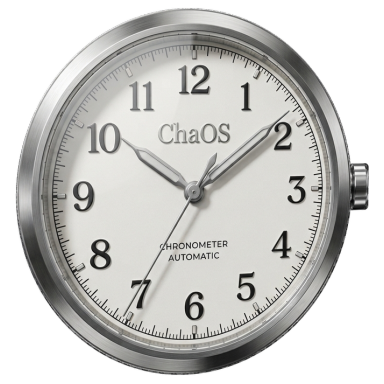
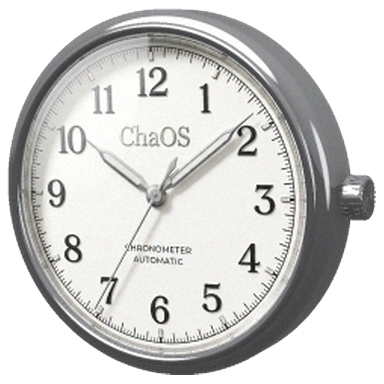
Recently Played's watch, rendered: SkyWalker541's dial on a modelled steel case
The dial and its inner ring are laid on a case and crown in the picture's
polished silver, so it turns as the other rendered cards do and its side shows.

Claude-Session: https://claude.ai/code/session_01TGGsTE1DNkb6MQqq6tNzFj

diff --git a/tools/genrecentwatch.py b/tools/genrecentwatch.py
@@ -1,80 +1,78 @@
 #!/usr/bin/env python3
-"""Cut res/cards/fancy/RECENT.png, the Recently Played card in Fancy Pants,
-from res/cards/fancy/source/recent-watch.jpg: a steel watch with ChaOS on its
-dial, made by SkyWalker541 for ChaOS (generated with Gemini).
+"""Draw res/cards/fancy/RECENT.png, Recently Played's card in Fancy Pants: a
+steel watch with ChaOS on its dial, rendered (tools/raymarch.py) so it turns
+as the set's other rendered cards do, with its case's side showing.
 
-The source is a JPEG with a checkerboard painted where transparency would be,
-so the watch is cut by its shape, not its pixels: the case's circle (centre
-704.5, 386.5, radius 340, measured where the case meets the board) and the
-crown's rounded rectangle, both drawn at 4x and brought down for a smooth
-edge. Then it is turned as the rendered cards are (24 degrees about its
-upright, 4 about its level, in perspective), trimmed to its alpha, its
-longest side 96% of 384 and centred (res/cards/fancy/SOURCE.md).
+The face is SkyWalker541's: res/cards/fancy/source/recent-watch.jpg, a watch
+with ChaOS on its dial made for ChaOS (generated with Gemini). Its dial and
+the polished ring around it - everything inside 298 px of the centre at
+(704.5, 386.5) - are laid on the front of a modelled case as a picture. The
+case, its rounded edge and the crown are modelled in brushed steel of the
+picture's own grey, so the side shows when the watch is turned.
 
     tools/genrecentwatch.py
 """
 import os
+import sys
 
-import cv2
 import numpy as np
-from PIL import Image, ImageDraw
+from PIL import Image
+
+sys.path.insert(0, os.path.dirname(os.path.abspath(__file__)))
+import raymarch as rm  # noqa: E402
 
 ROOT = os.path.dirname(os.path.dirname(os.path.abspath(__file__)))
 SRC = os.path.join(ROOT, "res", "cards", "fancy", "source", "recent-watch.jpg")
 OUT = os.path.join(ROOT, "res", "cards", "fancy", "RECENT.png")
 
-CASE = (704.5, 386.5, 340.0)
-CROWN = (1036, 338, 1083, 430, 8)
-SS = 4
+CX, CY, FACE_PX, CASE_PX = 704.5, 386.5, 298, 340
+M = rm.rot(4, -26, 0)                 # turned as the set's rendered cards are
+CASE_R = 1.30                          # the case, in scene units
+FACE_R = CASE_R * FACE_PX / CASE_PX    # the picture's dial and inner ring
+DEPTH = 0.26                           # half the case's thickness
+FRONT = DEPTH - 0.02                   # where the face sits, just inside the rim
 
 
-def cut(src):
-    h, w = src.shape[:2]
-    cx, cy, r = CASE
-    m = Image.new("L", (w * SS, h * SS), 0)
-    d = ImageDraw.Draw(m)
-    d.ellipse([(cx - r) * SS, (cy - r) * SS, (cx + r) * SS, (cy + r) * SS], fill=255)
-    x0, y0, x1, y1, rr = CROWN
-    d.rounded_rectangle([x0 * SS, y0 * SS, x1 * SS, y1 * SS], radius=rr * SS, fill=255)
-    return np.dstack([src, np.array(m.resize((w, h), Image.LANCZOS))])
+def face_picture():
+    im = Image.open(SRC).convert("RGB")
+    return im.crop((round(CX - FACE_PX), round(CY - FACE_PX),
+                    round(CX + FACE_PX), round(CY + FACE_PX))).resize((1200, 1200), Image.LANCZOS)
 
 
-def turn(img, yaw=-24, pitch=4, f=2200):
-    h, w = img.shape[:2]
-    c = np.array([w / 2, h / 2])
-    y, p = np.radians(yaw), np.radians(pitch)
-    ry = np.array([[np.cos(y), 0, np.sin(y)], [0, 1, 0], [-np.sin(y), 0, np.cos(y)]])
-    rx = np.array([[1, 0, 0], [0, np.cos(p), -np.sin(p)], [0, np.sin(p), np.cos(p)]])
-    rm = rx @ ry
-    pts = np.array([[0, 0], [w, 0], [w, h], [0, h]], np.float32)
-    out = []
-    for x, yv in pts:
-        v = rm @ np.array([x - c[0], yv - c[1], 0.0])
-        s = f / (f + v[2])
-        out.append([c[0] + v[0] * s, c[1] + v[1] * s])
-    m = cv2.getPerspectiveTransform(pts, np.array(out, np.float32))
-    # premultiplied, so the edge takes no dark fringe from the cleared pixels
-    pm = img.astype(np.float32)
-    pm[:, :, :3] *= pm[:, :, 3:4] / 255
-    t = cv2.warpPerspective(pm, m, (w, h), flags=cv2.INTER_LANCZOS4,
-                            borderMode=cv2.BORDER_CONSTANT, borderValue=(0, 0, 0, 0))
-    a = np.clip(t[:, :, 3], 0, 255)
-    t[:, :, :3] = np.where(a[..., None] > 0, t[:, :, :3] * 255 / np.maximum(a[..., None], 1e-3), 0)
-    return np.clip(t, 0, 255).astype(np.uint8)
+FACE = rm.Tex(face_picture(), -FACE_R, FACE_R, -FACE_R, FACE_R, base=(150, 149, 145))
 
 
-def frame(t):
-    ys, xs = np.where(t[:, :, 3] > 8)
-    t = t[ys.min():ys.max() + 1, xs.min():xs.max() + 1]
-    h, w = t.shape[:2]
-    k = 369.0 / max(h, w)
-    t = cv2.resize(t, (round(w * k), round(h * k)), interpolation=cv2.INTER_AREA)
-    out = np.zeros((384, 384, 4), np.uint8)
-    oy, ox = (384 - t.shape[0]) // 2, (384 - t.shape[1]) // 2
-    out[oy:oy + t.shape[0], ox:ox + t.shape[1]] = t
-    return out
+def frame(p):
+    return rm.local(p, (0, 0, 0), M)
 
+
+# The picture's polished silver: a bright metal, glossy enough to carry the
+# studio's softbox and dark floor as the picture's case carries its bands
+STEEL = (236, 237, 239)
+MATS = [rm.Mat(STEEL, gloss=0.8, metal=True),                                # 0 case
+        rm.Mat(lambda p: FACE(frame(p)), gloss=0.55, spec=0.3, emit=0.95),  # 1 face, under glass
+        rm.Mat((240, 241, 243), gloss=0.9, metal=True)]                     # 2 polished rim and crown
+
+
+def scene(p):
+    q = frame(p)
+    # the case: a short rounded drum, its front cut away for the face
+    case = rm.cyl(q, CASE_R, DEPTH, 0.12, axis=2)
+    case = np.maximum(case, -rm.cyl(q - [0, 0, DEPTH], FACE_R, 0.05, 0.0, axis=2))
+    face = rm.cyl(q - [0, 0, FRONT - 0.02], FACE_R + 0.004, 0.02, 0.0, axis=2)
+    # a polished lip round the face, and the crown at three o'clock
+    rim = rm.torus(q - [0, 0, DEPTH - 0.01], FACE_R + 0.035, 0.035)
+    crown = rm.cyl(q - [CASE_R + 0.10, 0, 0], 0.15, 0.08, 0.03, axis=0)
+    # its grip: shallow grooves round the crown
+    ang = np.arctan2(q[..., 2], q[..., 1])
+    crown = crown + 0.008 * (np.sin(ang * 24) > 0)
+    stem = rm.cyl(q - [CASE_R + 0.01, 0, 0], 0.06, 0.06, 0.0, axis=0)
+    shiny = np.minimum(np.minimum(rim, crown), stem)
+    d = np.stack([case, face, shiny], -1)
+    return d.min(-1), d.argmin(-1)
+
+
+scene.mats = MATS
 
 if __name__ == "__main__":
-    cv2.imwrite(OUT, frame(turn(cut(cv2.imread(SRC)))))
-    print(OUT)
+    rm.render(scene, OUT, cam=(0.3, 0.5, 9.0), look=(0, 0, 0), fov=26)

diff --git a/CREDITS.md b/CREDITS.md
@@ -135,7 +135,7 @@ sold, put behind a paywall, or shipped with a device that is sold.
 - **The port library pack** (`dist/libpack/`, the "portlibs" release, `tools/build-libpack.sh`): libraries a port may need that the Brick hasn't got, fetched by ChaOS only for a port that needs one, into `.userdata/brick/ports/lib`: **libtheora** 1.1.1 (BSD-3-Clause), **pixman** 0.42.2 (MIT), **GMP** 6.3.0 (LGPL-3.0-or-later or GPL-2.0-or-later), **cairo** 1.18.0 (LGPL-2.1 or MPL-1.1), **fontconfig** 2.15.0 (MIT), **FLAC** 1.3.3 (BSD-3-Clause), **libevdev** 1.13.1 (MIT), GCC 13.3.0's **libgomp** (GPL-3.0-or-later with the GCC Runtime Library Exception), and ChaOS's own stand-in for PulseAudio's **libpulse-simple** (MIT). `dist/libpack/SOURCES.txt` says where each source came from; the sources go with the release.
 - **GNU bash** 5.1.16 (https://www.gnu.org/software/bash/, GPL-3.0-or-later): `/bin/bash` in the image, unchanged, for ports. Its licence is `Licenses/bash.txt` on the card and its source is in each release's sources archive (`dist/brick/bash-source.tar.xz`, built by `tools/build-bash.sh`).
 - **squashfs-tools** 4.6.1's **unsquashfs** (https://github.com/plougher/squashfs-tools, GPL-2.0-or-later), built static with **zlib** 1.3.1 (zlib licence), **xz** 5.6.3 (0BSD and public domain), **Zstandard** 1.5.6 (BSD) and **LZ4** 1.10.0 (BSD-2-Clause): unpacks ports' runtimes on the card (`TortOS/ports/bin/unsquashfs`), unchanged. Its licence is `Licenses/squashfs-tools.txt` on the card and its source is in each release's sources archive (`dist/brick/unsquashfs-source.tar.xz`, built by `tools/build-unsquashfs.sh`).
-- **The Favorites, Muse, Recently Played, Ports and PICO-8 cards** are ChaOS's own, with no third-party images: in Plain Jane on the drawn set's own card (`tools/cardstyle.py`, `tools/genpico8card.py`), in Fancy Pants rendered in 3D as objects (`tools/raymarch.py`; `tools/genmusefancy.py`, `tools/genportsfancy.py`, `tools/genrecentfancy.py`, `tools/genpico8fancy.py`). The PICO-8 cards are a generic cartridge with a pixel heart, nothing of PICO-8's own logo; their pink is a color of its palette. Muse's Fancy Pants card replaces TortOS's iPod photograph, whose source was never recorded. Recently Played's Fancy Pants card is a watch with ChaOS on its dial, made by SkyWalker541 for ChaOS (`res/cards/fancy/source/recent-watch.jpg`, cut by `tools/genrecentwatch.py`).
+- **The Favorites, Muse, Recently Played, Ports and PICO-8 cards** are ChaOS's own, with no third-party images: in Plain Jane on the drawn set's own card (`tools/cardstyle.py`, `tools/genpico8card.py`), in Fancy Pants rendered in 3D as objects (`tools/raymarch.py`; `tools/genmusefancy.py`, `tools/genportsfancy.py`, `tools/genrecentfancy.py`, `tools/genpico8fancy.py`). The PICO-8 cards are a generic cartridge with a pixel heart, nothing of PICO-8's own logo; their pink is a color of its palette. Muse's Fancy Pants card replaces TortOS's iPod photograph, whose source was never recorded. Recently Played's Fancy Pants card is a watch whose ChaOS dial is by SkyWalker541, made for ChaOS (`res/cards/fancy/source/recent-watch.jpg`), on a case rendered by `tools/genrecentwatch.py`.
 - **ChaOS logo** ("Handheld burst"): original pixel art made for ChaOS, drawn
   pixel by pixel in `tools/genlogo.py` with no third-party images or fonts;
   see `res/logo/SOURCE.md`.

diff --git a/res/cards/fancy/SOURCE.md b/res/cards/fancy/SOURCE.md
@@ -42,10 +42,10 @@ side 96% of 384 and centred, in the 384 canvas because it is taller than wide.
 
 ## RECENT.png
 
-Not a console: Recently Played's card, a steel watch with ChaOS on its dial,
-made by SkyWalker541 for ChaOS (generated with Gemini) and given to the
-project on 2026-11-14. Its source is `source/recent-watch.jpg`, kept here;
-`tools/genrecentwatch.py` cuts the watch from it (the source paints a
-checkerboard where transparency would be), turns it as the rendered cards
-are, and frames it as above. It replaces the rendered alarm clock
-(`tools/genrecentfancy.py`), which is kept.
+Not a console: Recently Played's card, a steel watch with ChaOS on its dial.
+The dial is SkyWalker541's, made for ChaOS (generated with Gemini) and given
+to the project on 2026-11-14; its source is `source/recent-watch.jpg`, kept
+here. `tools/genrecentwatch.py` lays its dial and inner ring on a modelled
+steel case and crown and renders it (`tools/raymarch.py`), so it turns as the
+other rendered cards do, with the case's side showing, framed as above. It
+replaces the rendered alarm clock (`tools/genrecentfancy.py`), which is kept.
